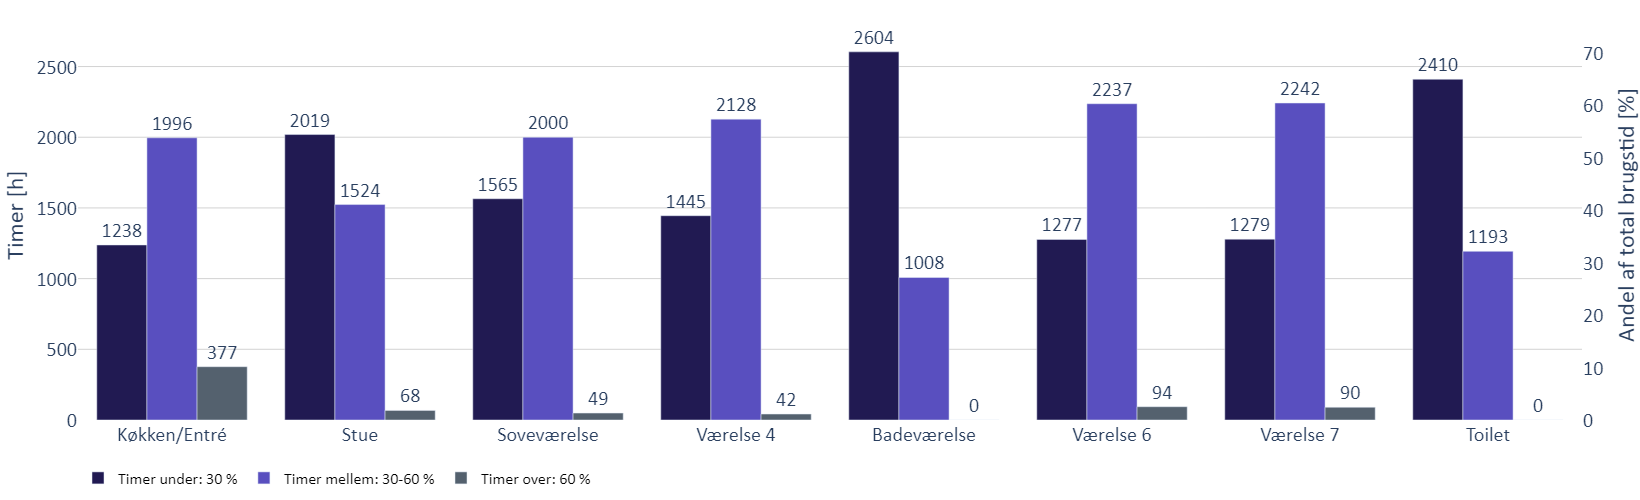
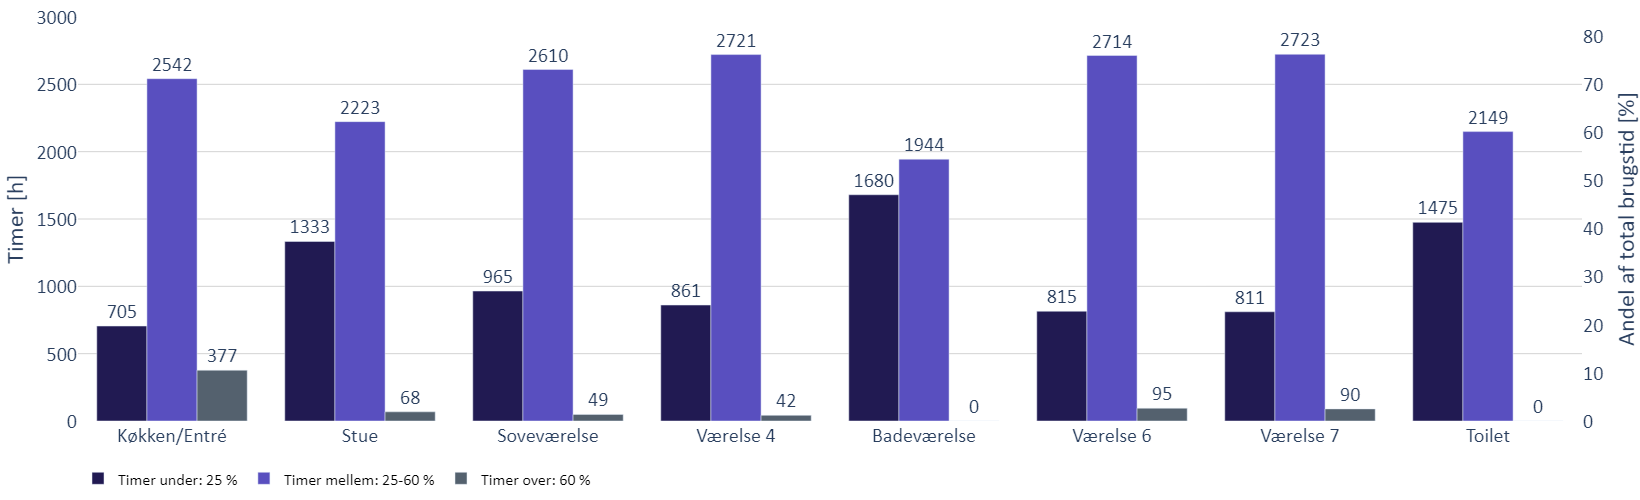
Fixed #38

diff --git a/Testing/Maalinger.py b/Testing/Maalinger.py
@@ -58,9 +58,12 @@ from func.figures.distribution_plot import DistributionPlot
 
 
 
-path_var = os.path.normpath("C:/Users/Mikkel H. Lauridsen/OneDrive - Aalborg Universitet/Programmer/03 BSimExtract/DATA/Data til Mikkel 1.th..txt")
+# path_var = os.path.normpath("C:/Users/Mikkel H. Lauridsen/OneDrive - Aalborg Universitet/Programmer/03 BSimExtract/DATA/Data til Mikkel 1.th..txt")
+# path_var = os.path.normpath("C:/Users/Mikkel H. Lauridsen/OneDrive - Aalborg Universitet/Programmer/03 BSimExtract/DATA/Data til Mikkel til Jeppe.txt")
+path_var = os.path.normpath("C:/Users/Mikkel H. Lauridsen/OneDrive - Aalborg Universitet/Programmer/03 BSimExtract/DATA/Data til Mikkel DHW.txt")
+# path_var = os.path.normpath("C:/Users/Mikkel H. Lauridsen/OneDrive - Aalborg Universitet/Programmer/03 BSimExtract/DATA/Data til Mikkel DHW 1.th..txt")
 dayprofile_var = os.path.normpath("C:/Users/Mikkel H. Lauridsen/OneDrive - Aalborg Universitet/Programmer/03 BSimExtract/bsimextract/dayprofiles/dayprofile_altid.txt")
-df = discard_data(import_data(path_var), "RelHumid")
+df = discard_data(import_data(path_var), "DHW")
 # df = df.drop(634)
 
 # print(len(df.columns))
@@ -73,25 +76,39 @@ df = discard_data(import_data(path_var), "RelHumid")
 
 name = ["Co2", "RelHumid", "Top ", "AirChange"]
 parameters = {
-    "Co2": [950, 1200],
-    "RelHumid": ["-25", "25-60", 60],
-    "Top ": [27, 28],
-    "AirChange": ["-2", "2-4", 4]
+    "Co2": (950, 1200),
+    "RelHumid": ('-25', '25-60', 60),
+    "Top ": (27, 28),
+    # "AirChange": (-2, 2-4, 4)
 }
+period = "Always"
 root = ctk.CTk()
 ctk.set_appearance_mode(COLOR_MODE)
 
 root.title("TEST: display_rh")
 root.geometry("800x300")
 
-for i in name:
-    current_parameters = parameters[i]
-    # print(parameters[i])
-    df = discard_data(import_data(path_var), i)
+# for i in name:
+#     current_parameters = parameters[i]
+
+#     input = str(current_parameters).replace("(", "").replace(")", "").replace(" ", "").split(",")
+#     current_parameters = [int(x) if "-" not in x else x for x in input]
+
+#     # print(parameters[i])
+#     df = discard_data(import_data(path_var), i)
+
+#     print(current_parameters)
     
-    ScatterPlot(root, df, Interval_unit = "d", parameters = current_parameters)
-    BarPlot(root, df, current_parameters, Interval = "Dage", Interval_unit = "d")
-    DistributionPlot(root, df, parameters=current_parameters)
+#     ScatterPlot(root, df, period, current_parameters, Interval_unit = "d")
+#     BarPlot(root, df, period, current_parameters, Interval = "Dage", Interval_unit = "d")
+#     DistributionPlot(root, df, period, current_parameters)
+
+current_parameters = (0.056)
+input = str(current_parameters).replace("(", "").replace(")", "").replace(" ", "").split(",")
+current_parameters = [float(x) if x.replace(".", "", 1).replace("-", "", 1).isdigit() else x for x in input]
+ScatterPlot(root, df, period, current_parameters, Interval_unit = "d")
+BarPlot(root, df, period, current_parameters, Interval = "Dage", Interval_unit = "d")
+DistributionPlot(root, df, period, current_parameters)
 
 root.mainloop()
     

diff --git a/func/figures/bar_plot.py b/func/figures/bar_plot.py
@@ -77,28 +77,42 @@ class BarPlot(tk.Frame):
         elif label.lower() == "airchange":
             unit = "h^-1"
             label = "Luftskifte"
+        else:
+            unit = "m^3/d"
         
 
         
         
         #* Parameters
         data = []
+        startswith = False
         
         #* Preparing data
         for column in df.columns[5:]:
             counts = []
             for param in parameters:
-                if isinstance(param, int):
-                    counts.append(sum(df[column].astype(float) > param))
+                if isinstance(param, (int, float)):
+                    if startswith:
+                        counts.append(sum(df[column].astype(float) >= param - 0.1))
+                        startswith = False
+                    else:
+                        counts.append(sum(df[column].astype(float) >= param))
+                        startswith = False
                 else:
                     if param.startswith("'-"):
                         param = str(param).replace("'", "")
                         right = int(param[1:]) - 0.1
-                        counts.append(sum(df[column].astype(float) < right))
+                        counts.append(sum(df[column].astype(float) <= right))
+                        startswith = True
                     else:
                         param = str(param).replace("'", "")
                         left, right = map(int, param.split("-"))
-                        counts.append(sum((df[column].astype(float) > left) & (df[column].astype(float) < right)))
+                        if startswith:
+                            counts.append(sum((df[column].astype(float) > left - 0.1) & (df[column].astype(float) < right)))
+                            startswith = False
+                        else:
+                            counts.append(sum((df[column].astype(float) > left) & (df[column].astype(float) < right)))
+                            startswith = False
             data.append(counts)
 
 
@@ -132,7 +146,8 @@ class BarPlot(tk.Frame):
 
         #* Secondary y axis auto scaling 
         adjustment = df_counts.max().max()/10
-        ratio = round(1. / (length_df - adjustment), 5)
+        # ratio = round(1. / (length_df - adjustment), 5)
+        ratio = round(1. / (length_df), 5)
 
         fig.add_trace(go.Scatter(
             x=[],
@@ -150,6 +165,7 @@ class BarPlot(tk.Frame):
             margin=dict(b=5,t=10,l=5,r=10),
             paper_bgcolor="white",
             plot_bgcolor="white",
+            showlegend=True,
             font=dict(
                 family="Calibri",
                 size=20
@@ -176,7 +192,7 @@ class BarPlot(tk.Frame):
                 title = "Andel af total brugstid [%]",
                 overlaying = "y",
                 side = "right",
-                range = [0, df_counts.max().max()*ratio*100],
+                range = [0, (df_counts.max().max() + adjustment)*ratio*100],
                 showgrid = False
             )
         )                

diff --git a/func/figures/distribution_plot.py b/func/figures/distribution_plot.py
@@ -92,6 +92,9 @@ class DistributionPlot(tk.Frame):
             #* Converting data to two decimals to avoid sorting algorithmic errors
             for column in df.columns[5:]:
                 df[column] = pd.to_numeric(df[column], errors='coerce').fillna(0).round(2)
+        else:
+            label = label_input
+            unit = "m^3/d"
             
 
         #* Sorting data
@@ -101,7 +104,7 @@ class DistributionPlot(tk.Frame):
         color_index = 0
 
         for param in parameters:
-            if isinstance(param, int):
+            if isinstance(param, (int, float)):
                 fig.add_shape(
                     type="line",
                     x0 = 0,
@@ -179,6 +182,7 @@ class DistributionPlot(tk.Frame):
             autosize = PLOTLY_STANDARD_AUTOSIZE,
             font=dict(family="Calibri", size=20),
             autotypenumbers="convert types",
+            showlegend=True,
             xaxis = dict(
                 visible=False
                 

diff --git a/func/figures/scatter_plot.py b/func/figures/scatter_plot.py
@@ -132,7 +132,7 @@ class ScatterPlot(tk.Frame):
                 yaxis_showgrid=True,
             )
         else:
-            unit = ""
+            unit = "m^3/d"
 
 
         color_index = 0
@@ -142,7 +142,7 @@ class ScatterPlot(tk.Frame):
 
         for param in parameters:
 
-            if isinstance(param, int):
+            if isinstance(param, (int, float)):
                 fig.add_shape(
                     type="line",
                     x0 = 0,
@@ -205,6 +205,7 @@ class ScatterPlot(tk.Frame):
             paper_bgcolor = PLOTLY_STANDARD_PAPER_BACKGROUND_COLOR,
             plot_bgcolor="white",
             autosize = PLOTLY_STANDARD_AUTOSIZE,
+            showlegend=True,
             xaxis = dict(
                 gridcolor='LightGrey',
                 range=[0, length_df],

diff --git a/settings/settings.py b/settings/settings.py
@@ -179,15 +179,16 @@ TEMP_PARAMETER_WINTER = ["-20", "20-25", 25]
 # RH_FORMATCOLOR_LOWMAXRH = "Orange"
 # RH_FORMATCOLOR_MAXRH = "Red"
 
-RH_PARAMETER_ALWAYS = ["-30", "30-60", 60]
-RH_PARAMETER_SUMMER = ["-30", "30-60", 60]
-RH_PARAMETER_TRANSITION = ["-30", "30-60", 60]
-RH_PARAMETER_WINTER = ["-30", "30-60", 60]
+RH_PARAMETER_ALWAYS = ["-25", "25-60", 60]
+RH_PARAMETER_SUMMER = ["-25", "25-60", 60]
+# RH_PARAMETER_SUMMER = ["-25", "25-45", 60]
+RH_PARAMETER_TRANSITION = ["-25", "25-60", 60]
+RH_PARAMETER_WINTER = ["-25", "25-60", 60]
 
 #! Start Airch settings
 # AIRCH_MAXAIRCH_ONE = 2
 # AIRCH_MAXAIRCH_TWO = 3
-# AIRCH_MAXAIRCH_THREE = 4
+# AIRCH_MAXAIRCH_THREE = 4 
 # AIRCH_FORMATCOLOR_ONE = "Yellow"
 # AIRCH_FORMATCOLOR_TWO = "Orange"
 # AIRCH_FORMATCOLOR_THREE = "Red"

diff --git a/Testing/test.py b/Testing/test.py
@@ -212,4 +212,4 @@ fig2.update_layout(barmode='stack', xaxis={'categoryorder':'total ascending'})
 
 fig2.show()
 
-# fig2.write_image("energiforbrug.png", engine="kaleido")
+fig2.write_image("energiforbrug.png", engine="kaleido")
